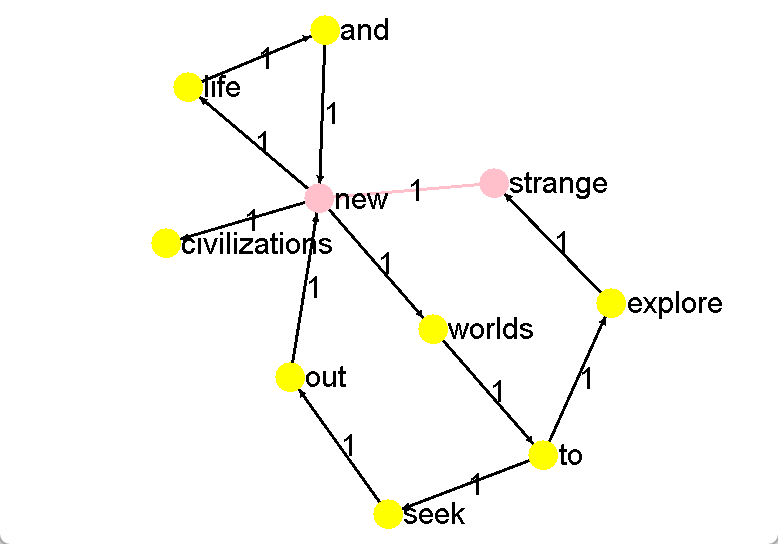
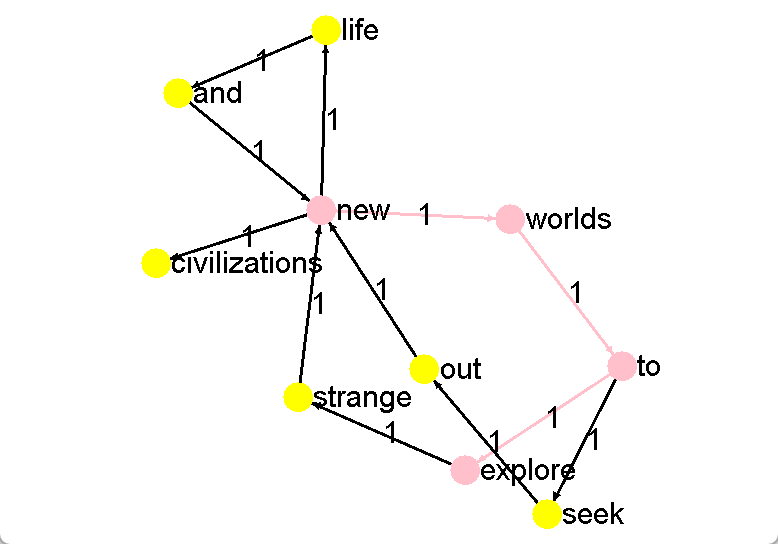
实现全部功能

diff --git a/src/main/java/org/example/GraphOperations.java b/src/main/java/org/example/GraphOperations.java
@@ -155,7 +155,7 @@ public class GraphOperations {
     public static void calcShortestPath(String word1, String word2){
 
         if(!Util.nodes.contains(word1)||!Util.nodes.contains(word2)){
-            System.out.println(word1+"   "+word2+":不可达！！！！");
+            System.out.println(word1+ "与" +word2+"  不可达！");
             return ;
         }
         //初始化S,U,R
@@ -174,7 +174,7 @@ public class GraphOperations {
         for(edge i : Util.links.get(word1)){
            U.put(i.dst, Util.weights.get(i));
         }
-        System.out.println("初始化： "+U);
+//        System.out.println("初始化： "+U);
 
         //计算距离
         while(true){
@@ -196,9 +196,9 @@ public class GraphOperations {
             S.put(chosenNode,U.get(chosenNode));
             R.get(chosenNode).add(chosenNode);
             U.remove(chosenNode);
-            System.out.println(chosenNode+"-----------------------------------------------------------");
+//            System.out.println(chosenNode+"-----------------------------------------------------------");
             //System.out.println(R.get(chosenNode));
-            System.out.println(R.get(chosenNode));
+//            System.out.println(R.get(chosenNode));
             //重新计算期望距离
             if(Util.links.get(chosenNode)!=null){
 
@@ -206,6 +206,7 @@ public class GraphOperations {
                     if(U.get(i.dst)!=null && U.get(i.dst)>Util.weights.get(i)+S.get(chosenNode)){
 
                         U.put(i.dst,Util.weights.get(i)+S.get(chosenNode));
+                        R.remove(i.dst);
                         R.remove(i.dst);
 
                         R.put(i.dst,new ArrayList<>(R.get(chosenNode)));
@@ -215,24 +216,25 @@ public class GraphOperations {
 
             }
             if(U.size()==1){
-                System.out.println(S +"   "+ U);
+//                System.out.println(S +"   "+ U);
 
                 chosenNode = U.keySet().toArray()[0].toString();
                 S.put(chosenNode,U.get(chosenNode));
                 R.get(chosenNode).add(chosenNode);
                 U.remove(chosenNode);
-                System.out.println(chosenNode+"-----------------------------------------------------------");
+//                System.out.println(chosenNode+"-----------------------------------------------------------");
                 //System.out.println(R.get(chosenNode));
-                System.out.println(R.get(chosenNode));
+//                System.out.println(R.get(chosenNode));
                 break;
             }
-            System.out.println(S +"   "+ U);
+//            System.out.println(S +"   "+ U);
 
         }
 
         /**
          *  选做，将word1到所有节点的路径都打印出来
          */
+        System.out.println("The shortest paths from" + word1 + "to all nodes are:");
         for (String key : R.keySet()) {
             List<String> path = R.get(key);
             StringBuilder pathStr = new StringBuilder("");
@@ -243,7 +245,7 @@ public class GraphOperations {
                 pathStr.delete(pathStr.length() - 4, pathStr.length());
             }
             String pathStr_ = pathStr.toString();
-            System.out.println(key+":  "+pathStr_);
+            System.out.println(word1 + " -> " +  key + ":  " +pathStr_);
         }
 
 
@@ -256,7 +258,7 @@ public class GraphOperations {
         List<String> path = R.get(word2);
         Integer weight = S.get(word2);
         if(weight>=100000){
-            System.out.println(word1+"   "+word2+":不可达！！！！");
+            System.out.println(word1+"与"+word2+" 不可达！");
             return ;
         }
         int front = -1, rear = 0;
@@ -265,9 +267,6 @@ public class GraphOperations {
             node.setAttribute("ui.style", "size: 30px; text-size: 30px; fill-color: pink;");
             if (front >= 0) {
                 String edgeString = path.get(front) + "->" +path.get(rear);
-                System.out.println(front);
-                System.out.println(rear);
-                System.out.println(edgeString);
                 Edge edge = edgeHashMap.get(edgeString);
                 edge.setAttribute("ui.style", "size: 3px; text-size: 30px; fill-color: pink;");
             }

diff --git a/src/main/java/org/example/Main.java b/src/main/java/org/example/Main.java
@@ -1,4 +1,4 @@
-package org.example.Tool;
+package org.example;
 import org.example.Util;
 import org.graphstream.graph.*;
 import org.graphstream.graph.implementations.MultiGraph;
@@ -18,33 +18,38 @@ public class Main {
 
         // 读取文件并切分字符串得到单词数组
         StringBuilder textContent = Util.read("src/main/java/org/example/text/text.txt");
-        System.out.println(textContent);
         String[] words = textContent.toString().split( "\\s+");
-        for (String word : words) {
-           // System.out.println(word);
+        System.out.println("---- The words are: ----");
+        for (int i=0; i<words.length; i++) {
+            System.out.print(words[i]);
+            if (i < words.length - 1)
+                System.out.print(", ");
         }
+        System.out.println("\n\n");
 
         // 根据单词数组生成有向图
         graph = GraphOperations.generateGraph(words);
-        System.out.println();
-        Util util = new Util();
+
+
         // 初始化工具
-        util.InitTools(GraphOperations.nodeHashMap.keySet(), GraphOperations.edgeHashMap.keySet(), graph);
+        Util.InitTools(GraphOperations.nodeHashMap.keySet(), GraphOperations.edgeHashMap.keySet(), graph);
 
-        //GraphOperations.searchWord(util, "strange");
-        //GraphOperations.queryBridgeWords(util, "to","strange");
-        //System.out.println(GraphOperations.generateNewText("TTo strange worlds to seek out life new",util));
-        //System.out.println(GraphOperations.randomWalk(util,"test1.txt"));
-        GraphOperations.calcShortestPath("explore","new");
-
-        // 展示有向图
+        // 计算最短路径
+        System.out.println("---- Shortest Path: ----");
+        GraphOperations.calcShortestPath("new", "explore");
         Viewer viewer = graph.display();
+        Util.draw(viewer, "src/main/java/org/example/png/shortest_distance.png");
+        System.out.println("\n\n");
 
+        // 生成文本
+        System.out.println("---- Generate Text: ----");
+        GraphOperations.generateNewText("seek to explore new and exciting synergies");
+        System.out.println("\n\n");
 
-
-        // 使用图布局算法
-        viewer.enableAutoLayout(Layouts.newLayoutAlgorithm());
-        Util.draw(viewer,"src/main/java/org/example/png/graph.png");
+        // 随机游走
+        System.out.println("---- Random Walk: ----");
+        GraphOperations.randomWalk("randomWalk");
+        System.out.println("\n\n");
 
     }
 }

diff --git a/src/test/java/test.java b/src/test/java/test.java
@@ -22,9 +22,13 @@ public class test {
         // 读取文件并切分字符串得到单词数组
         StringBuilder textContent = Util.read("src/main/java/org/example/text/text.txt");
         String[] words = textContent.toString().split( "\\s+");
-        for (String word : words) {
-            System.out.println(word);
+        System.out.println("The words are:");
+        for (int i=0; i<words.length; i++) {
+            System.out.print(words[i]);
+            if (i < words.length - 1)
+                System.out.print(", ");
         }
+        System.out.println("\n\n");
 
         // 根据单词数组生成有向图
         graph = GraphOperations.generateGraph(words);
@@ -34,18 +38,21 @@ public class test {
         Util.InitTools(GraphOperations.nodeHashMap.keySet(), GraphOperations.edgeHashMap.keySet(), graph);
 
         // 计算最短路径
-        System.out.println("Shortest Path");
-        GraphOperations.calcShortestPath("strange", "new");
+        System.out.println("---- Shortest Path: ----");
+        GraphOperations.calcShortestPath("new", "explore");
         Viewer viewer = graph.display();
         Util.draw(viewer, "src/main/java/org/example/png/shortest_distance.png");
+        System.out.println("\n\n");
 
         // 生成文本
-        System.out.println("Generate Text:");
+        System.out.println("---- Generate Text: ----");
         GraphOperations.generateNewText("seek to explore new and exciting synergies");
+        System.out.println("\n\n");
 
         // 随机游走
-        System.out.println("Random Walk:");
+        System.out.println("---- Random Walk: ----");
         GraphOperations.randomWalk("randomWalk");
+        System.out.println("\n\n");
 
 
     }

diff --git a/src/main/java/org/example/Util.java b/src/main/java/org/example/Util.java
@@ -74,7 +74,7 @@ public class Util {
         // 保存图像到文件
         ImageIO.write(image, "png", new File(filename));
 
-        System.out.println("Graph saved as image.");
+        System.out.println("The graph has been saved as an image.");
     }
 
 
@@ -109,8 +109,6 @@ public class Util {
             }
 
         }
-
-        System.out.println("初始化完成");
     }
 
 }
